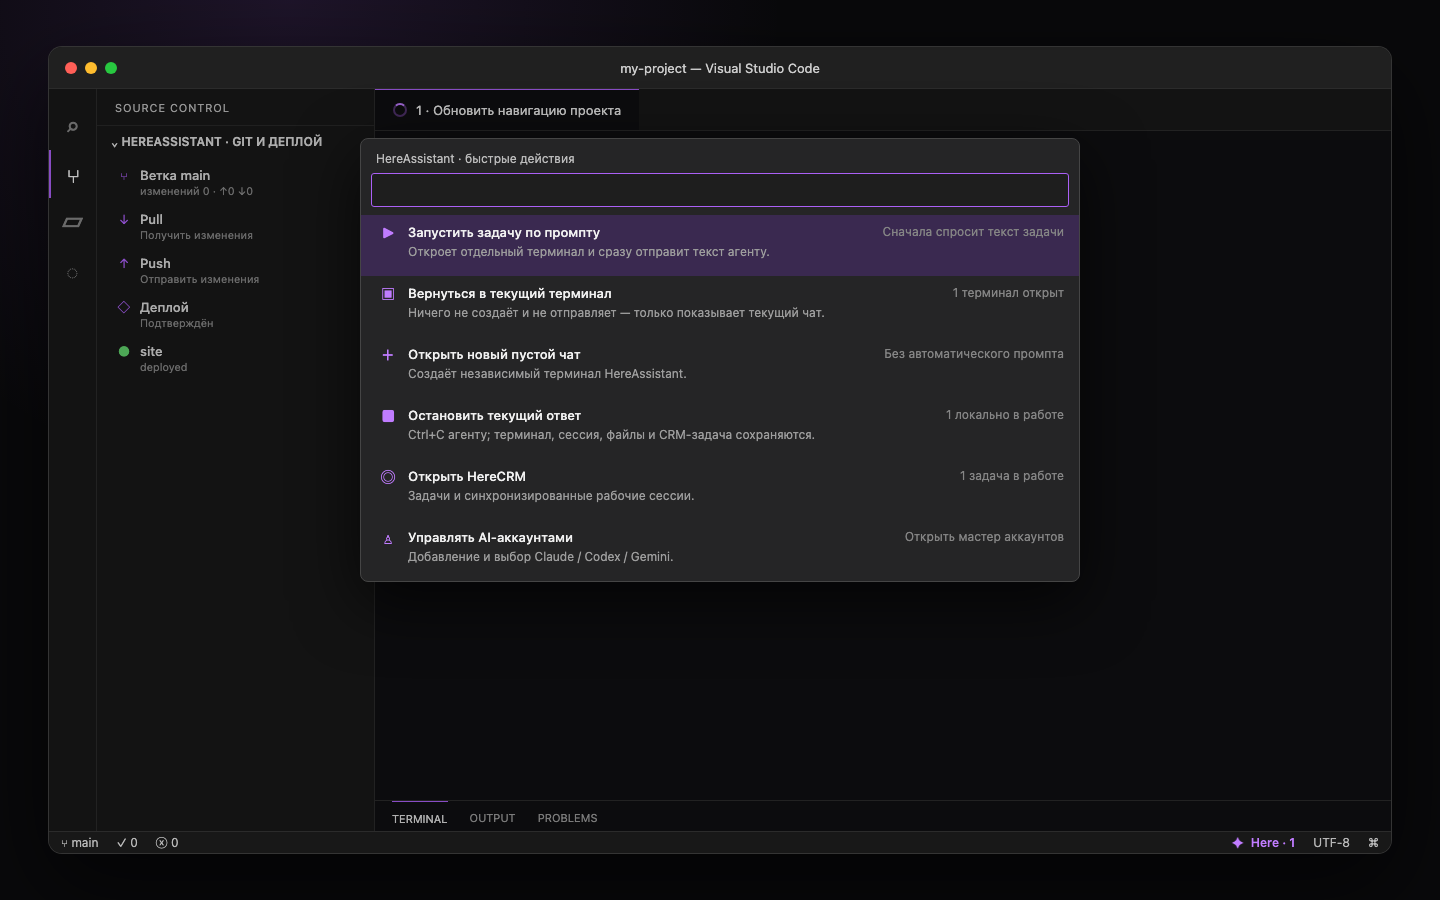
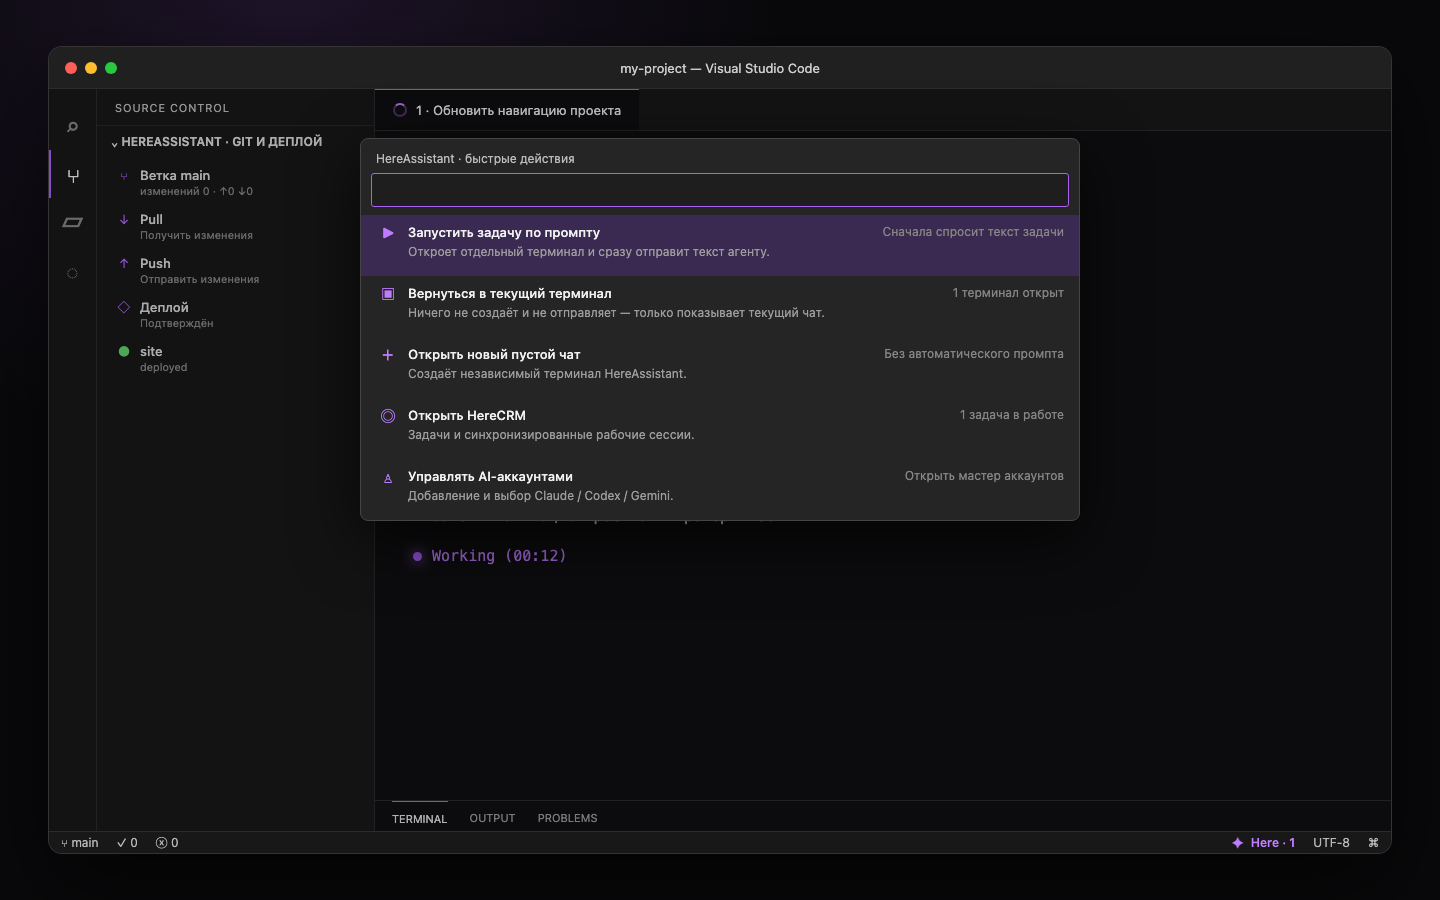
Упрощено управление терминалами HereAssistant

Changed region(s): [[0.25, 0.5289, 0.75, 0.6533], [0.25, 0.4356, 0.5625, 0.4978]]

diff --git a/vscode-extension/extension.js b/vscode-extension/extension.js
@@ -222,7 +222,6 @@ class Controller {
       newTerminal: () => this.startTerminal(true),
       runTask: () => this.runTask(),
       finishTask: () => this.runTask('Проверь результат текущей работы, выполни необходимые проверки и переведи связанную HereCRM-задачу в статус «Завершено». Если задача не связана — явно сообщи об этом.'),
-      stop: () => this.stop(),
       newSession: () => this.sendSlash('/new'),
       resume: () => this.sendSlash('/resume'),
       gitPull: () => vscode.commands.executeCommand('git.pull'),
@@ -425,7 +424,6 @@ class Controller {
   }
 
   async quickActions() {
-    const localWorking = [...this.terminals.values()].filter((info) => info.state?.state === 'working').length;
     const crmOpen = this.connection?.workspace?.tasks?.open || 0;
     const selected = await vscode.window.showQuickPick([
       {
@@ -445,12 +443,6 @@ class Controller {
         description: 'Без автоматического промпта',
         detail: 'Создаёт независимый терминал HereAssistant; задачу можно написать уже внутри.',
         command: 'hereAssistant.newTerminal',
-      },
-      {
-        label: '$(debug-stop) Остановить текущий ответ',
-        description: `${localWorking} локально в работе`,
-        detail: 'Отправляет Ctrl+C активному агенту; терминал, сессия, файлы и CRM-задача сохраняются.',
-        command: 'hereAssistant.stop',
       },
       { label: '$(issues) Открыть HereCRM', description: `${crmOpen} задач в работе`, command: 'hereAssistant.openWeb' },
       {
@@ -563,18 +555,6 @@ class Controller {
     const terminal = vscode.window.createTerminal({ name: 'Here · Управление AI-аккаунтами', cwd: this.installationPath() });
     terminal.show();
     terminal.sendText(`${shellQuote(this.pythonCommand(this.installationPath()))} ${shellQuote(path.join(this.installationPath(), 'manage.py'))}`, true);
-  }
-
-  async stop() {
-    if (this.terminal && this.terminal.exitStatus === undefined) this.terminal.sendText('\x03', false);
-    if (this.apiBase()) {
-      try { await this.api('/api/control/stop', { method: 'POST', body: {} }); }
-      catch (error) { void vscode.window.showWarningMessage(`HereAssistant: ${cleanLine(error.message)}`); }
-    }
-    this.localState = { ...(this.localState || {}), state: 'error' };
-    const info = this.activeInfo();
-    if (info) info.state = this.localState;
-    this.render();
   }
 
   async deploy() {

diff --git a/vscode-extension/test/extension.test.js b/vscode-extension/test/extension.test.js
@@ -53,9 +53,11 @@ test('manifest keeps terminal-first controls and Source Control delivery status'
   assert.equal(packageJson.contributes.configurationDefaults['terminal.integrated.tabs.title'], '${sequence}');
   assert.equal(packageJson.contributes.configurationDefaults['terminal.integrated.tabs.enableAnimation'], true);
   assert.ok(packageJson.contributes.commands.some((item) => item.command === 'hereAssistant.quickActions'));
-  const stop = packageJson.contributes.commands.find((item) => item.command === 'hereAssistant.stop');
-  assert.equal(stop.title, 'HereAssistant: Остановить текущий ответ');
+  assert.equal(
+    packageJson.contributes.commands.some((item) => item.command === 'hereAssistant.stop'),
+    false,
+  );
   const source = fs.readFileSync(path.join(__dirname, '..', 'extension.js'), 'utf8');
   assert.match(source, /'\$\(sparkle\) Here'/);
-  assert.match(source, /терминал, сессия, файлы и CRM-задача сохраняются/);
+  assert.doesNotMatch(source, /Остановить текущий ответ/);
 });

diff --git a/core/config.py b/core/config.py
@@ -260,7 +260,7 @@ def webapp_url(path: str = "/", *, include_access_key: bool = False) -> str:
 
 
 # Версия приложения (для /health, /api/status и баннера терминального чата).
-APP_VERSION = "0.7.3"
+APP_VERSION = "0.7.4"
 
 # Токен сервисного API (/api/v1/*) для внешних систем (например, CRM).
 # ПУСТОЙ по умолчанию = сервисные эндпоинты отключены (503), а не открыты.

diff --git a/docs/vscode-workbench.md b/docs/vscode-workbench.md
@@ -8,8 +8,8 @@ The `creative-agency-here.hereassistant-vscode` extension adds:
 
 - terminal-editor tabs whose titles follow the current task and its
   `working / completed / unfinished` state;
-- a compact purple Here status-bar item that opens all session, account, CRM,
-  and stop actions as a Quick Pick;
+- a compact purple Here status-bar item that opens session, account, and CRM
+  actions as a Quick Pick;
 - multiline editing with Enter to send, Alt+Enter for a new line, history, and
   bracketed-paste support;
 - click-to-position editing; hold Shift while dragging for native terminal
@@ -46,14 +46,14 @@ python3 scripts/package_vscode_extension.py
 Install it:
 
 ```bash
-code --install-extension dist/hereassistant-vscode-0.7.3.vsix --force
+code --install-extension dist/hereassistant-vscode-0.7.4.vsix --force
 ```
 
 If `code` is not in `PATH` on macOS:
 
 ```bash
 "/Applications/Visual Studio Code.app/Contents/Resources/app/bin/code" \
-  --install-extension dist/hereassistant-vscode-0.7.3.vsix --force
+  --install-extension dist/hereassistant-vscode-0.7.4.vsix --force
 ```
 
 After reloading VS Code, click **Here** in the status bar, run **Setup**, and
@@ -104,19 +104,11 @@ credentials.
 always requires modal confirmation. Deployment state comes from
 `.hereassistant/deploy-state.json`; a Git push is never treated as a deployment.
 
-## Stopping work
+## Interrupting one terminal
 
-**Stop current response** performs both operations:
-
-1. sends Ctrl+C to the local HereAssistant terminal;
-2. creates a user-scoped stop request through the API.
-
-The bot process consumes the request through shared SQLite and cancels active
-work only for that user. The Web App uses the same endpoint.
-
-It does not close or delete the terminal, provider session, changed files, or
-linked CRM task. The unfinished marker remains visible until work is resumed or
-finished deliberately.
+The global Quick Pick intentionally has no stop action: with several sessions it
+would be unclear which response is being interrupted. Focus the required terminal
+and use its regular `Ctrl+C`; other sessions remain untouched.
 
 ## Development
 

diff --git a/docs/vscode-workbench.ru.md b/docs/vscode-workbench.ru.md
@@ -9,7 +9,7 @@
 - terminal-editor вкладки, название которых показывает задачу и состояние
   `работает / завершено / не завершено`;
 - компактный фиолетовый статус `Here`, открывающий быстрое меню сессий,
-  аккаунтов, CRM и остановки ответа;
+  аккаунтов и CRM;
 - многострочный ввод: Enter отправляет, Alt+Enter добавляет строку, ↑↓ открывают
   историю, а многострочная вставка сохраняется целиком;
 - постановка курсора обычным кликом; для нативного выделения терминала используется
@@ -46,14 +46,14 @@ python3 scripts/package_vscode_extension.py
 Установить:
 
 ```bash
-code --install-extension dist/hereassistant-vscode-0.7.3.vsix --force
+code --install-extension dist/hereassistant-vscode-0.7.4.vsix --force
 ```
 
 Если `code` не добавлен в PATH на macOS:
 
 ```bash
 "/Applications/Visual Studio Code.app/Contents/Resources/app/bin/code" \
-  --install-extension dist/hereassistant-vscode-0.7.3.vsix --force
+  --install-extension dist/hereassistant-vscode-0.7.4.vsix --force
 ```
 
 После перезапуска VS Code нажать `Here` в status bar → `Настроить` и выбрать
@@ -105,20 +105,11 @@ credentials.
 после modal-подтверждения. Факт деплоя берётся из
 `.hereassistant/deploy-state.json`; push никогда не считается деплоем сам по себе.
 
-## Остановка
+## Остановка одного терминала
 
-Команда `Остановить текущий ответ` одновременно:
-
-1. отправляет Ctrl+C локальному HereAssistant terminal;
-2. создаёт user-scoped stop request через API;
-3. bot process забирает запрос из общей SQLite и отменяет только активные задачи
-   этого пользователя.
-
-Web App использует тот же endpoint — прежняя кнопка-заглушка заменена рабочей.
-
-Терминал, provider-сессия, изменённые файлы и связанная CRM-задача при этом не
-закрываются и не удаляются. Статус остаётся незавершённым, пока работу явно не
-продолжат или не завершат.
+В глобальном быстром меню намеренно нет остановки: при нескольких сессиях неясно,
+какой ответ она прервёт. Выберите нужный terminal и используйте его обычный
+`Ctrl+C`; остальные сессии продолжат работу.
 
 ## Разработка
 

diff --git a/README.ru.md b/README.ru.md
@@ -183,14 +183,14 @@ cd HereAssistant
 python3 -m venv .venv
 .venv/bin/pip install -r requirements.txt
 python3 scripts/package_vscode_extension.py
-code --install-extension dist/hereassistant-vscode-0.7.3.vsix --force
+code --install-extension dist/hereassistant-vscode-0.7.4.vsix --force
 ```
 
 Перезапустите VS Code, нажмите фиолетовый **Here** в status bar, выберите
 `Настроить подключение` и укажите клонированную папку. Быстрое меню запускает и
-возвращает терминальные сессии, открывает HereCRM, управляет AI-аккаунтами и может
-остановить только текущий ответ без удаления терминала, файлов, сессии или
-CRM-задачи.
+возвращает терминальные сессии, открывает HereCRM и управляет AI-аккаунтами.
+Чтобы остановить конкретный ответ, выберите его terminal и используйте обычный
+`Ctrl+C` самого терминала.
 
 Расширение запускает существующий `chat.py` в текущем workspace, открывает каждую
 задачу отдельной вкладкой с динамическим названием, показывает CRM-задачи и

diff --git a/README.md b/README.md
@@ -143,13 +143,13 @@ cd HereAssistant
 python3 -m venv .venv
 .venv/bin/pip install -r requirements.txt
 python3 scripts/package_vscode_extension.py
-code --install-extension dist/hereassistant-vscode-0.7.3.vsix --force
+code --install-extension dist/hereassistant-vscode-0.7.4.vsix --force
 ```
 
 Reload VS Code, click the purple **Here** item in the status bar, choose
 **Set up connection**, and select this cloned folder. The menu starts or returns
-to terminal sessions, opens HereCRM, manages AI accounts, and can stop only the
-current response without deleting its terminal, files, session, or CRM task.
+to terminal sessions, opens HereCRM, and manages AI accounts. To interrupt a
+specific response, focus its terminal and use the terminal's regular `Ctrl+C`.
 
 The extension keeps access keys in VS Code SecretStorage, launches the existing
 `chat.py` inside the active workspace, reports real local state through an atomic

diff --git a/vscode-extension/README.md b/vscode-extension/README.md
@@ -8,7 +8,7 @@ A local workbench for an existing HereAssistant installation:
 - a live status bar that opens a compact Quick Pick control menu;
 - multiline `chat.py` input, history, bracketed paste, native selection, and
   copy-friendly soft wrapping;
-- start, stop, new-session, resume, and finish-task actions;
+- start, new-session, resume, and finish-task actions;
 - **HereAssistant · Git and deploy** in the standard Source Control view;
 - Pull and Push through VS Code's built-in Git extension;
 - deployment only through an explicit command and modal confirmation;
@@ -30,7 +30,7 @@ bar and run **HereAssistant: Setup connection**.
 
 ```bash
 python3 scripts/package_vscode_extension.py
-code --install-extension dist/hereassistant-vscode-0.7.3.vsix
+code --install-extension dist/hereassistant-vscode-0.7.4.vsix
 ```
 
 Setup asks for: